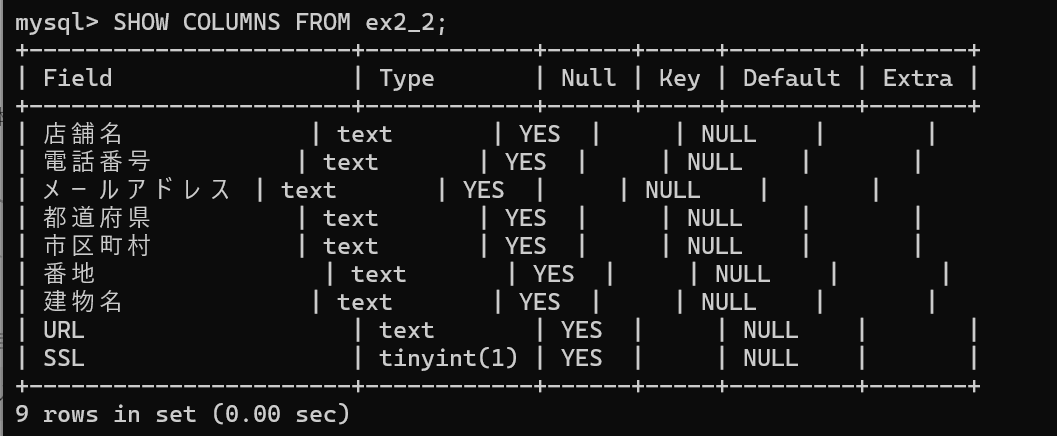
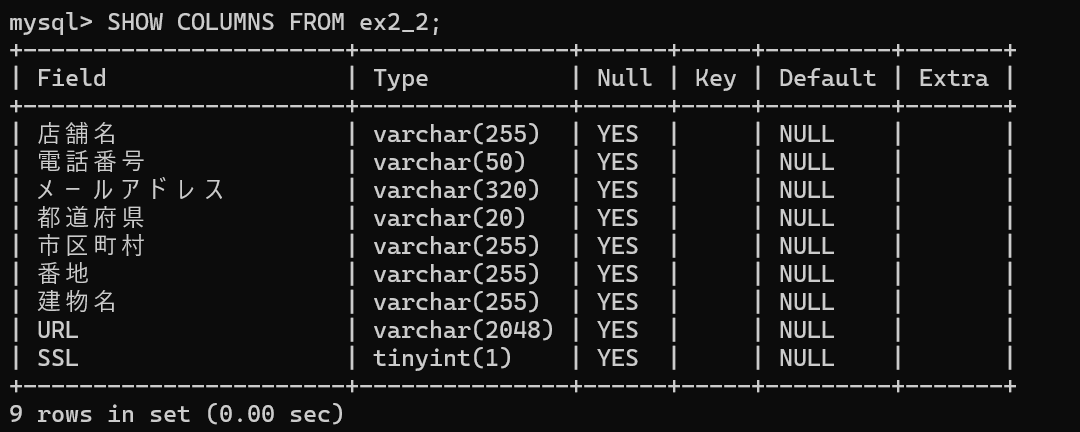
Save verified final shop URLs and refresh results

diff --git a/Exercise_for_Pool/python/ex1_web-scraping/1-1.py b/Exercise_for_Pool/python/ex1_web-scraping/1-1.py
@@ -423,9 +423,13 @@ def get_shop_details(shop_page_url):
 
     if shop_url:
 
+        # 検証に成功した転送先だけを成果物のURL欄へ反映する。
+        final_urls = []
         ssl, error_type, reason = check_ssl(
-            shop_url
+            shop_url, final_url_callback=final_urls.append
         )
+        if final_urls:
+            shop_url = final_urls[0]
 
     else:
 
@@ -455,7 +459,7 @@ def get_shop_details(shop_page_url):
 
 # ==================== 6. SSLを確認 ====================
 
-def check_ssl(url):
+def check_ssl(url, final_url_callback=None):
     """URLに接続し、証明書の検証と最終URLのHTTPSを確認する。"""
 
     # まずURL自体が有効か確認
@@ -533,6 +537,11 @@ def check_ssl(url):
                 "CAPTCHA",
                 "転送先がCAPTCHA画面"
             )
+
+        # 証明書・HTTP応答・転送先の検査を通った場合のみ保存する。
+        # 失敗時は呼び出し元の元URLをそのまま残す。
+        if final_url_callback is not None:
+            final_url_callback(response.url)
 
         # 最終的なURLがhttpsならTrue
         if response.url.lower().startswith(

diff --git a/Exercise_for_Pool/python/ex2_docker_and_db/2-2.py b/Exercise_for_Pool/python/ex2_docker_and_db/2-2.py
@@ -428,9 +428,13 @@ def get_shop_details(shop_page_url):
 
     if shop_url:
 
+        # 検証に成功した転送先だけをDBのURL欄へ反映する。
+        final_urls = []
         ssl, error_type, reason = check_ssl(
-            shop_url
+            shop_url, final_url_callback=final_urls.append
         )
+        if final_urls:
+            shop_url = final_urls[0]
 
     else:
 
@@ -460,7 +464,7 @@ def get_shop_details(shop_page_url):
 
 # ==================== 6. SSLを確認 ====================
 
-def check_ssl(url):
+def check_ssl(url, final_url_callback=None):
     """URLに接続し、証明書の検証と最終URLのHTTPSを確認する。"""
 
     # まずURL自体が有効か確認
@@ -538,6 +542,11 @@ def check_ssl(url):
                 "CAPTCHA",
                 "転送先がCAPTCHA画面"
             )
+
+        # 証明書・HTTP応答・転送先の検査を通った場合のみ保存する。
+        # 失敗時は呼び出し元の元URLをそのまま残す。
+        if final_url_callback is not None:
+            final_url_callback(response.url)
 
         # 最終的なURLがhttpsならTrue
         if response.url.lower().startswith(
